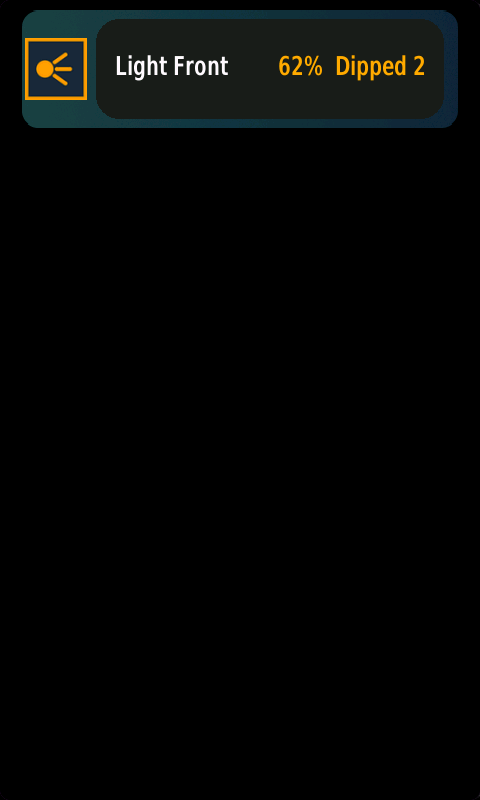
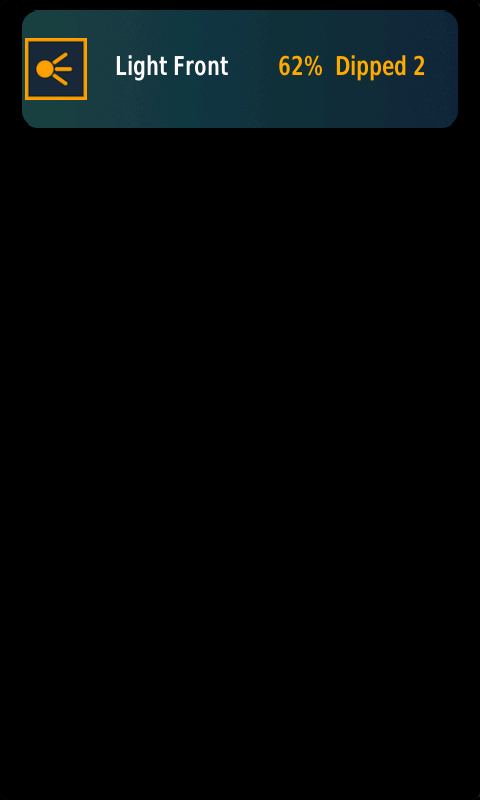
La vignette laisse voir le theme du compteur
Elle peignait son propre fond, une pastille sombre, pour regler le blanc
sur blanc de l'Edge MTB. Sur un 1050 ca donnait une boite grise au milieu
de la tuile bleu nuit du systeme, dont elle effacait le theme.

Le fond de tuile n'a pas la meme clarte d'un Edge a l'autre — mesure sur
les huit modeles qui ont une vignette, seul le MTB est clair — et aucune
couleur de texte ne convient au blanc comme au noir. L'encre se choisit
donc a la compilation, un fichier par variante associe aux appareils par
le jungle, comme la taille de l'icone de lanceur. La vignette, elle, ne
peint plus rien.

Changed region(s): [[0.1875, 0.0, 0.9375, 0.1562]]

diff --git a/CHANGELOG.md b/CHANGELOG.md
@@ -67,11 +67,17 @@ trace de ce qu'elle contenait.
 Quatre défauts d'affichage qu'aucun essai sur Edge 1050 ne pouvait montrer, et
 que le mode démonstration (`bash app/build.sh sim`) a rendus visibles :
 
-- **La vignette de résumé écrivait en blanc sur blanc.** Les sept thèmes de
-  vignette ont une zone de contenu blanche sur un Edge MTB et sombre sur un
-  1050 : le texte blanc y était donc invisible sur la moitié des modèles, et la
-  tuile paraissait vide. Elle porte maintenant son propre fond, une pastille
-  sombre, lisible quel que soit le thème choisi.
+- **La vignette de résumé écrivait en blanc sur blanc.** Le fond de tuile du
+  système n'a pas la même clarté d'un Edge à l'autre — mesuré sur les huit
+  modèles qui ont une vignette, seul l'Edge MTB est clair — et aucune couleur
+  de texte ne convient au blanc comme au noir. L'encre est donc choisie **à la
+  compilation**, un fichier par variante associé aux appareils par le jungle,
+  exactement comme la taille de l'icône de lanceur.
+
+  Une première correction peignait un fond opaque sous le texte. Elle réglait
+  le cas du MTB et en créait un autre : sur un Edge 1050, une boîte grise posée
+  au milieu de la tuile bleu nuit du système, dont elle effaçait le thème. La
+  vignette ne peint plus rien : le système a déjà dessiné sa tuile.
 - **La vignette était vide avant la première ouverture de la page.** Elle
   affiche désormais le nom de l'application à défaut de relevé.
 - **Le libellé du mode tombait en police minuscule** sur les Edge 1030, 1030
